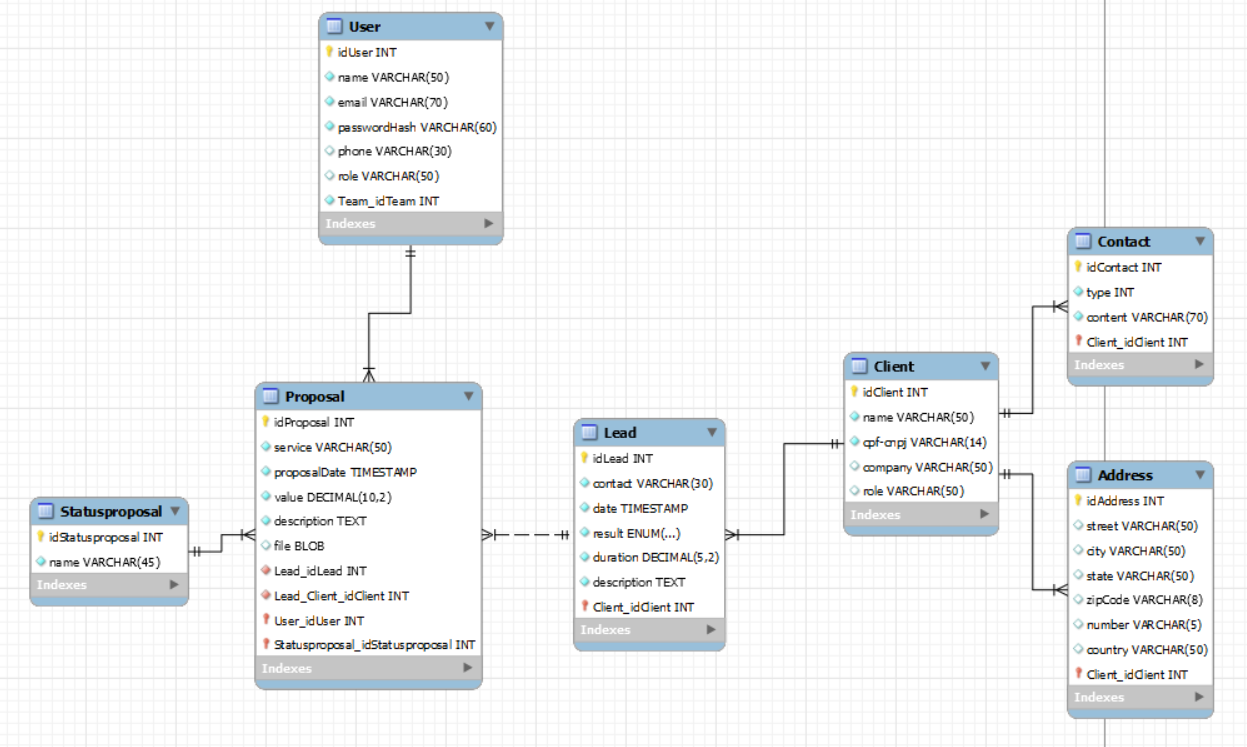
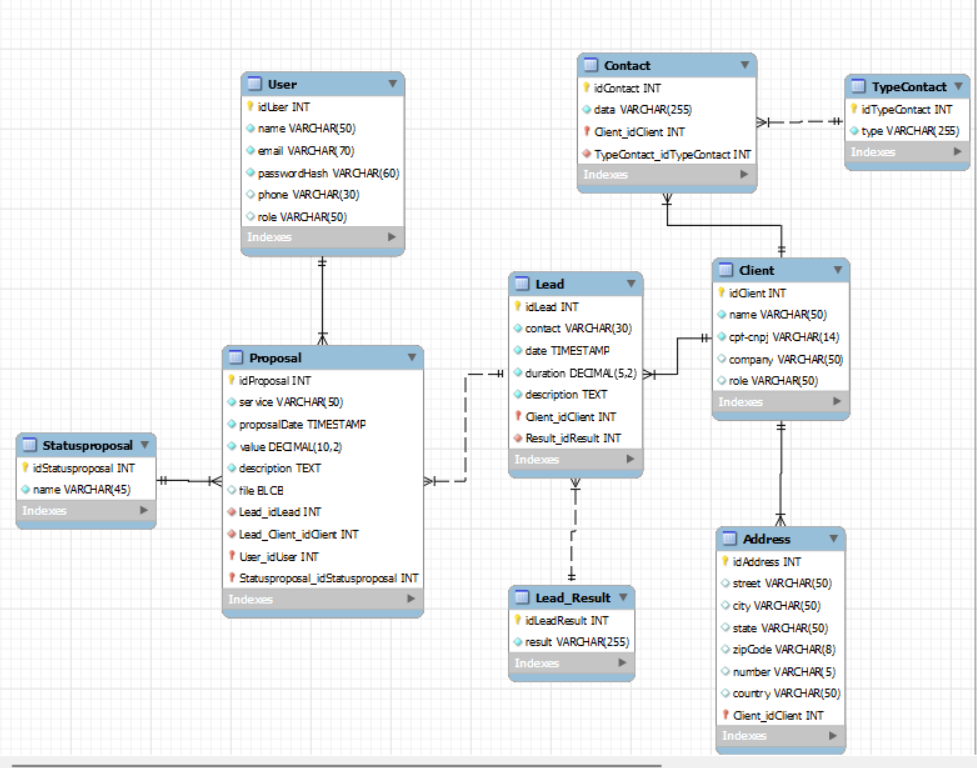
#2 normalização de banco de dados  (#1)
* Atualização do banco relacional

Atualizacao do modelo do banco de dados

* Ajuste no model Users referente ao banco de dados

Retirada do atributo CreateTime no model de Users

Changed region(s): [[0.0, 0.0, 1.0, 0.9853], [0.0, 0.9853, 0.6755, 1.0]]

diff --git a/back-end/src/main/java/com/esfera/g2/esferag2/model/User.java b/back-end/src/main/java/com/esfera/g2/esferag2/model/User.java
@@ -25,8 +25,7 @@ public class User {
 
     private String role;
 
-    @Column(nullable = false)
-    private java.sql.Timestamp createTime;
+
 
     public Long getIdUser() {
         return idUser;
@@ -74,14 +73,6 @@ public class User {
 
     public void setRole(String role) {
         this.role = role;
-    }
-
-    public Timestamp getCreateTime() {
-        return createTime;
-    }
-
-    public void setCreateTime(Timestamp createTime) {
-        this.createTime = createTime;
     }
 
     @Override
